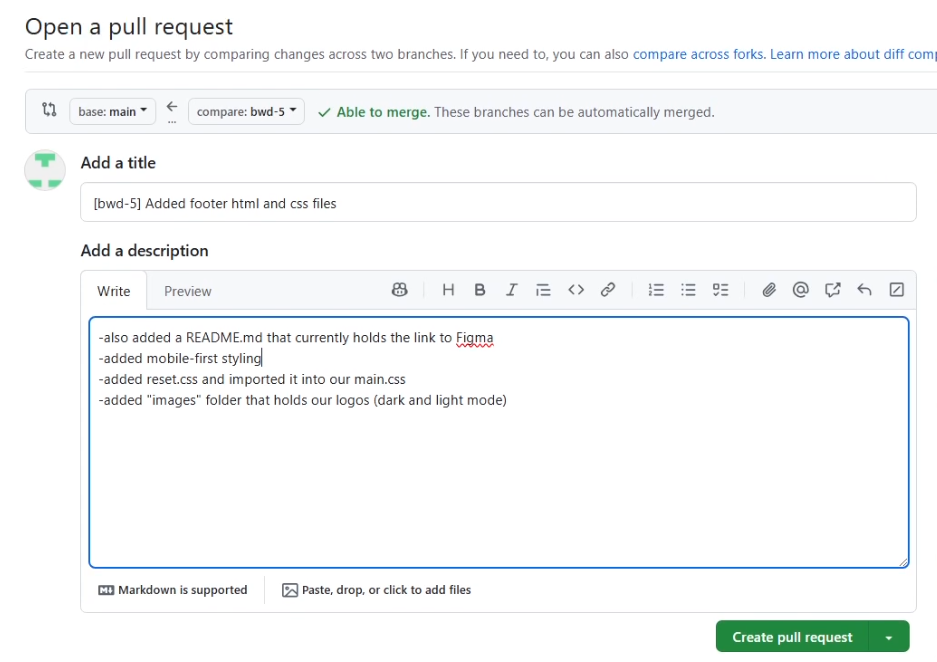
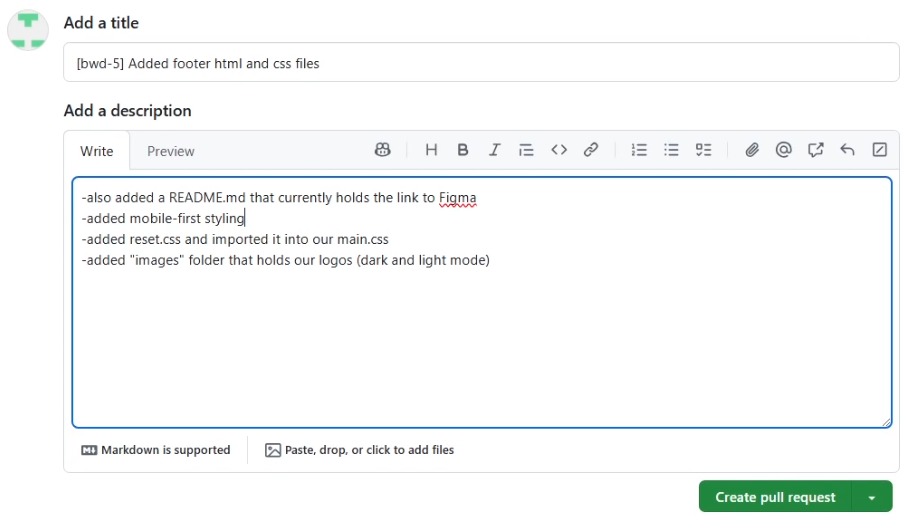
updated readme to include additional images and minor fixes

Changed region(s): [[0.0, 0.0, 1.0, 0.9195], [0.7634, 0.9195, 0.9771, 1.0]]

diff --git a/README.md b/README.md
@@ -32,6 +32,9 @@ git push origin bwd-5 # push your files up as a branch
 3. Creating the PR (Pull Request) by navigating on the repo on GitHub and click "Compare & pull request" https://github.com/beginning-web-dev/bwd-frontend
     ![Github interface](images/compareAndPullRequest.png)
 
+    **NOTE:** Make sure to echange the base to "develop", that way we're requesting to merge into the right branch for development.
+    ![Github interface](images/baseDevelop.png)
+
 4. Rename the title as [ticketNum] (brief description), then you can add specific details to the box under if appropriate. List them as bulletpoints.
     ![Github interface](images/prDescription.png)
 
